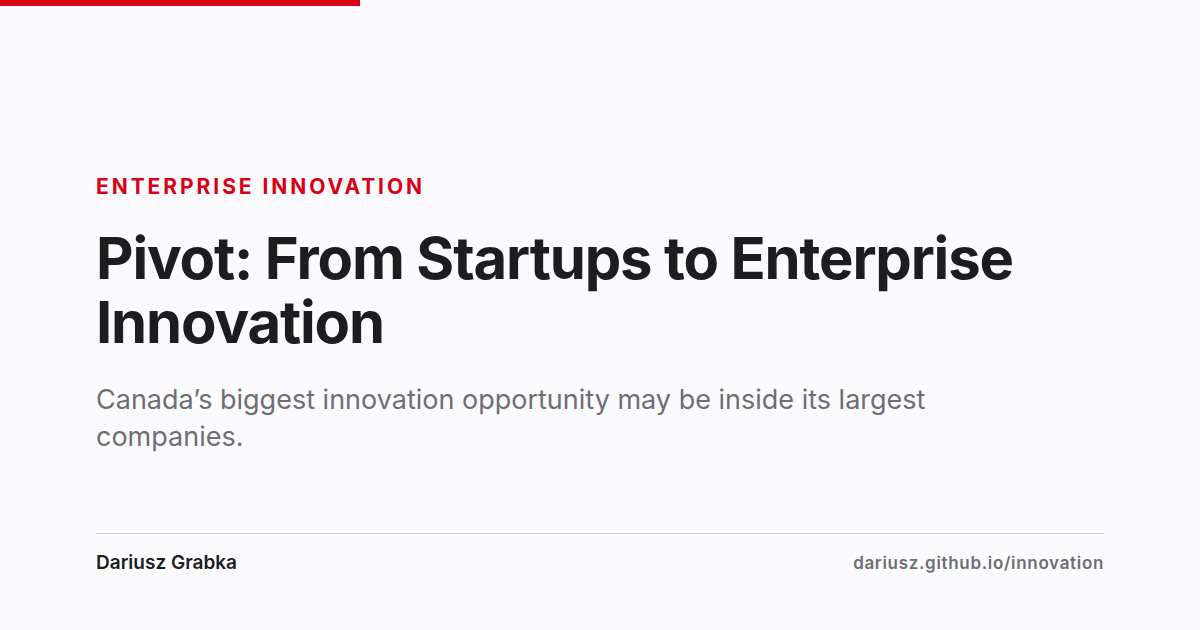
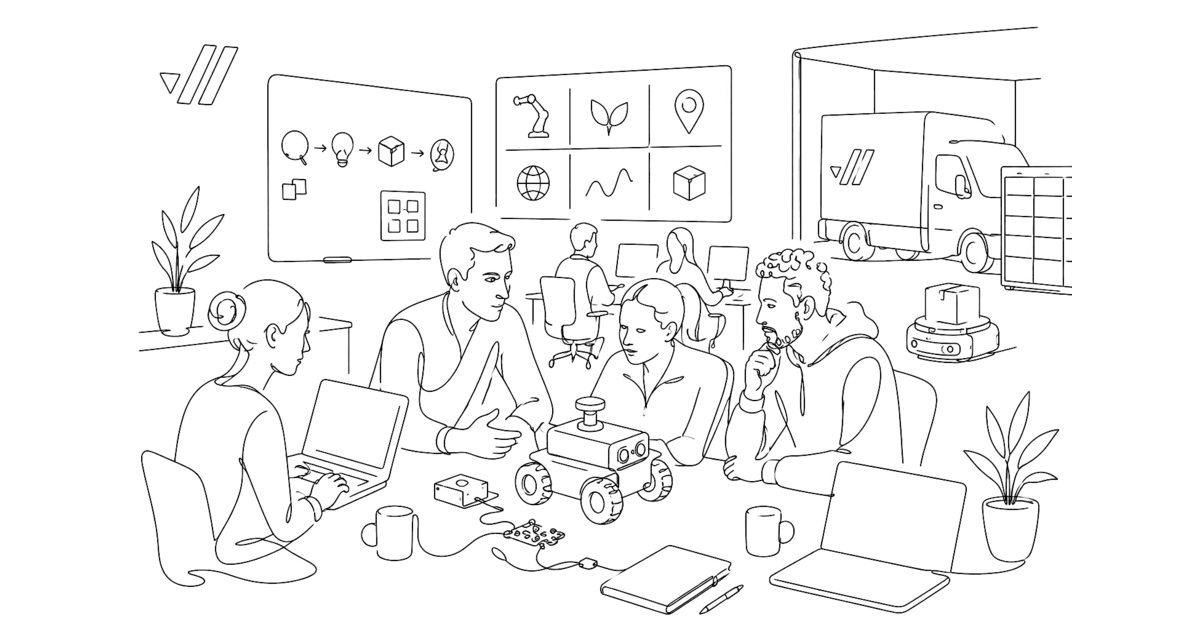
Use teamwork illustration as the social share image

diff --git a/index.html b/index.html
@@ -15,7 +15,7 @@
 <meta property="og:image" content="https://dariusz.github.io/innovation/og-image.png">
 <meta property="og:image:width" content="1200">
 <meta property="og:image:height" content="630">
-<meta property="og:image:alt" content="Pivot: From Startups to Enterprise Innovation — Dariusz Grabka">
+<meta property="og:image:alt" content="Line-art illustration of a team collaborating around a robotics prototype — from the talk Pivot: From Startups to Enterprise Innovation">
 <meta property="og:site_name" content="Pivot: From Startups to Enterprise Innovation">
 <meta property="og:locale" content="en_CA">
 
@@ -24,7 +24,7 @@
 <meta name="twitter:title" content="Pivot: From Startups to Enterprise Innovation">
 <meta name="twitter:description" content="Canada's biggest innovation opportunity may be inside its largest companies.">
 <meta name="twitter:image" content="https://dariusz.github.io/innovation/og-image.png">
-<meta name="twitter:image:alt" content="Pivot: From Startups to Enterprise Innovation — Dariusz Grabka">
+<meta name="twitter:image:alt" content="Line-art illustration of a team collaborating around a robotics prototype — from the talk Pivot: From Startups to Enterprise Innovation">
 
 <!-- Icons -->
 <link rel="icon" type="image/x-icon" href="favicon.ico">
